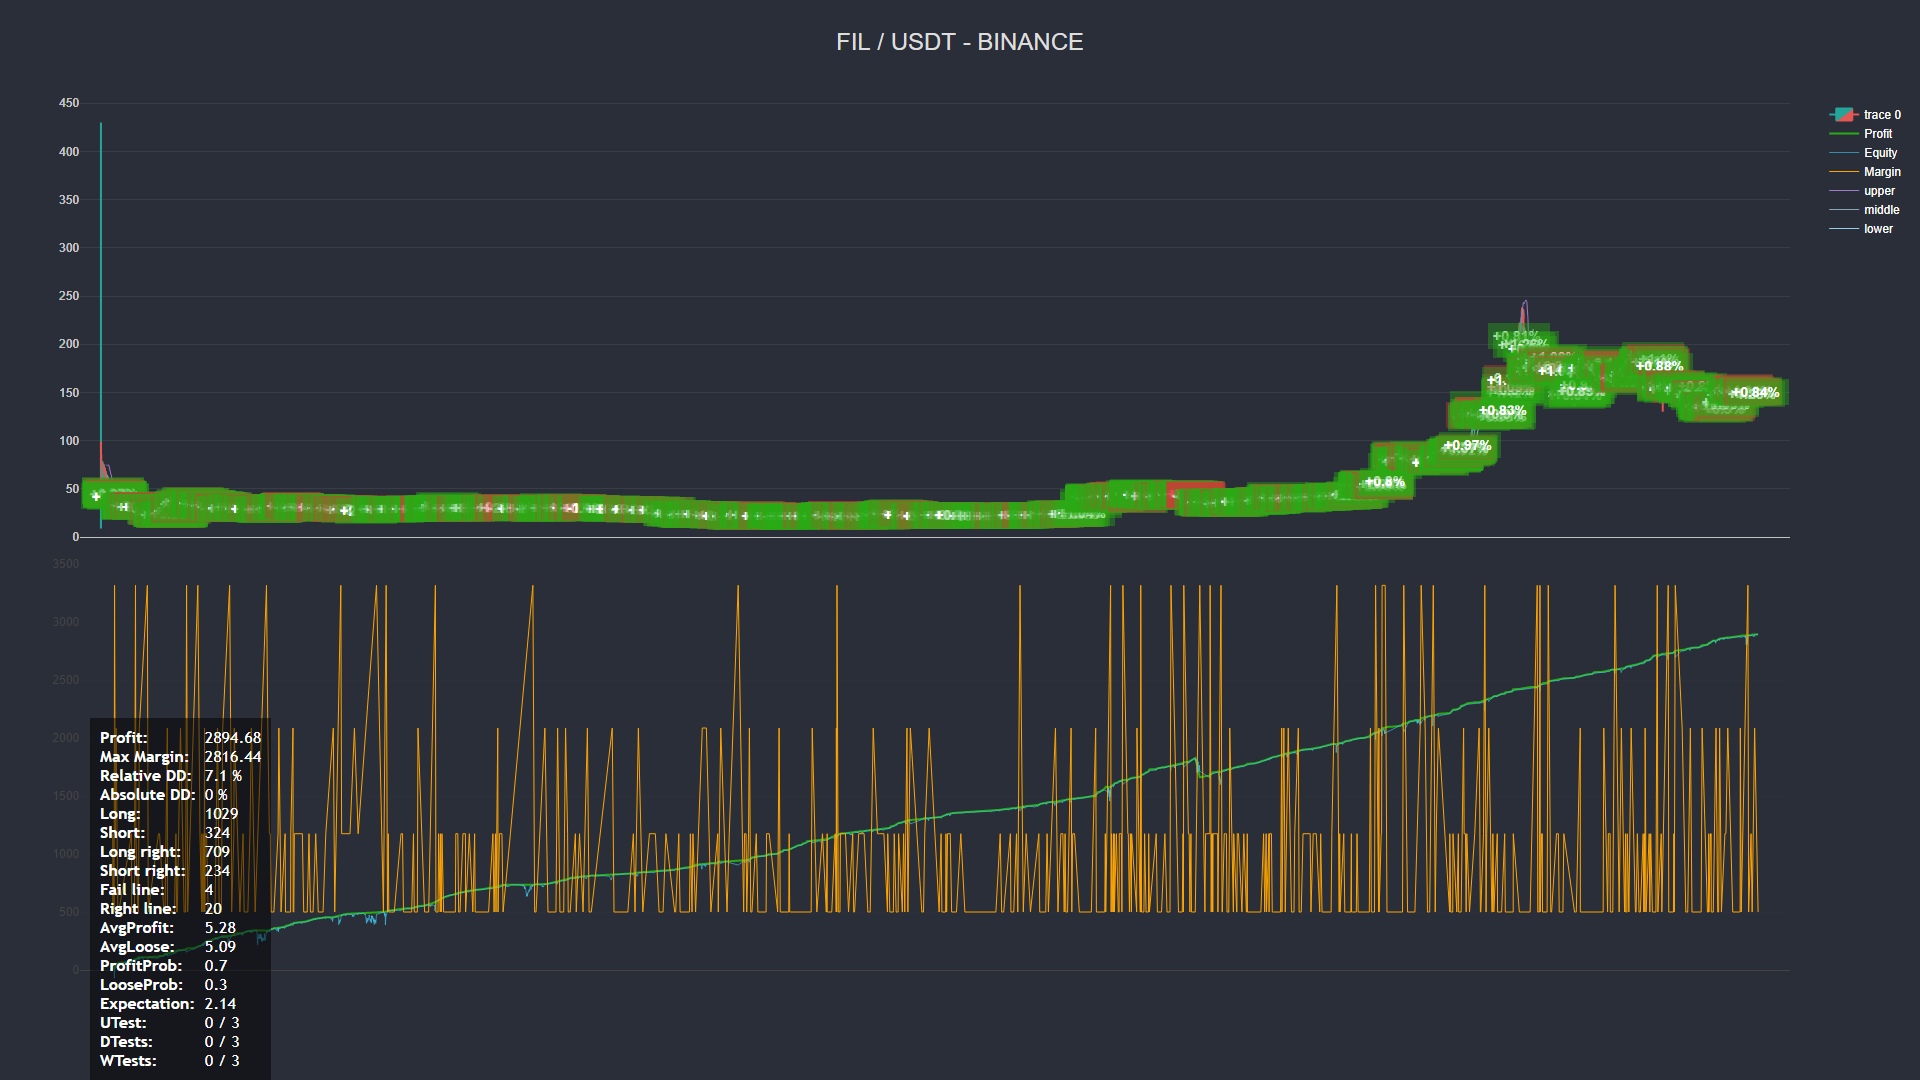
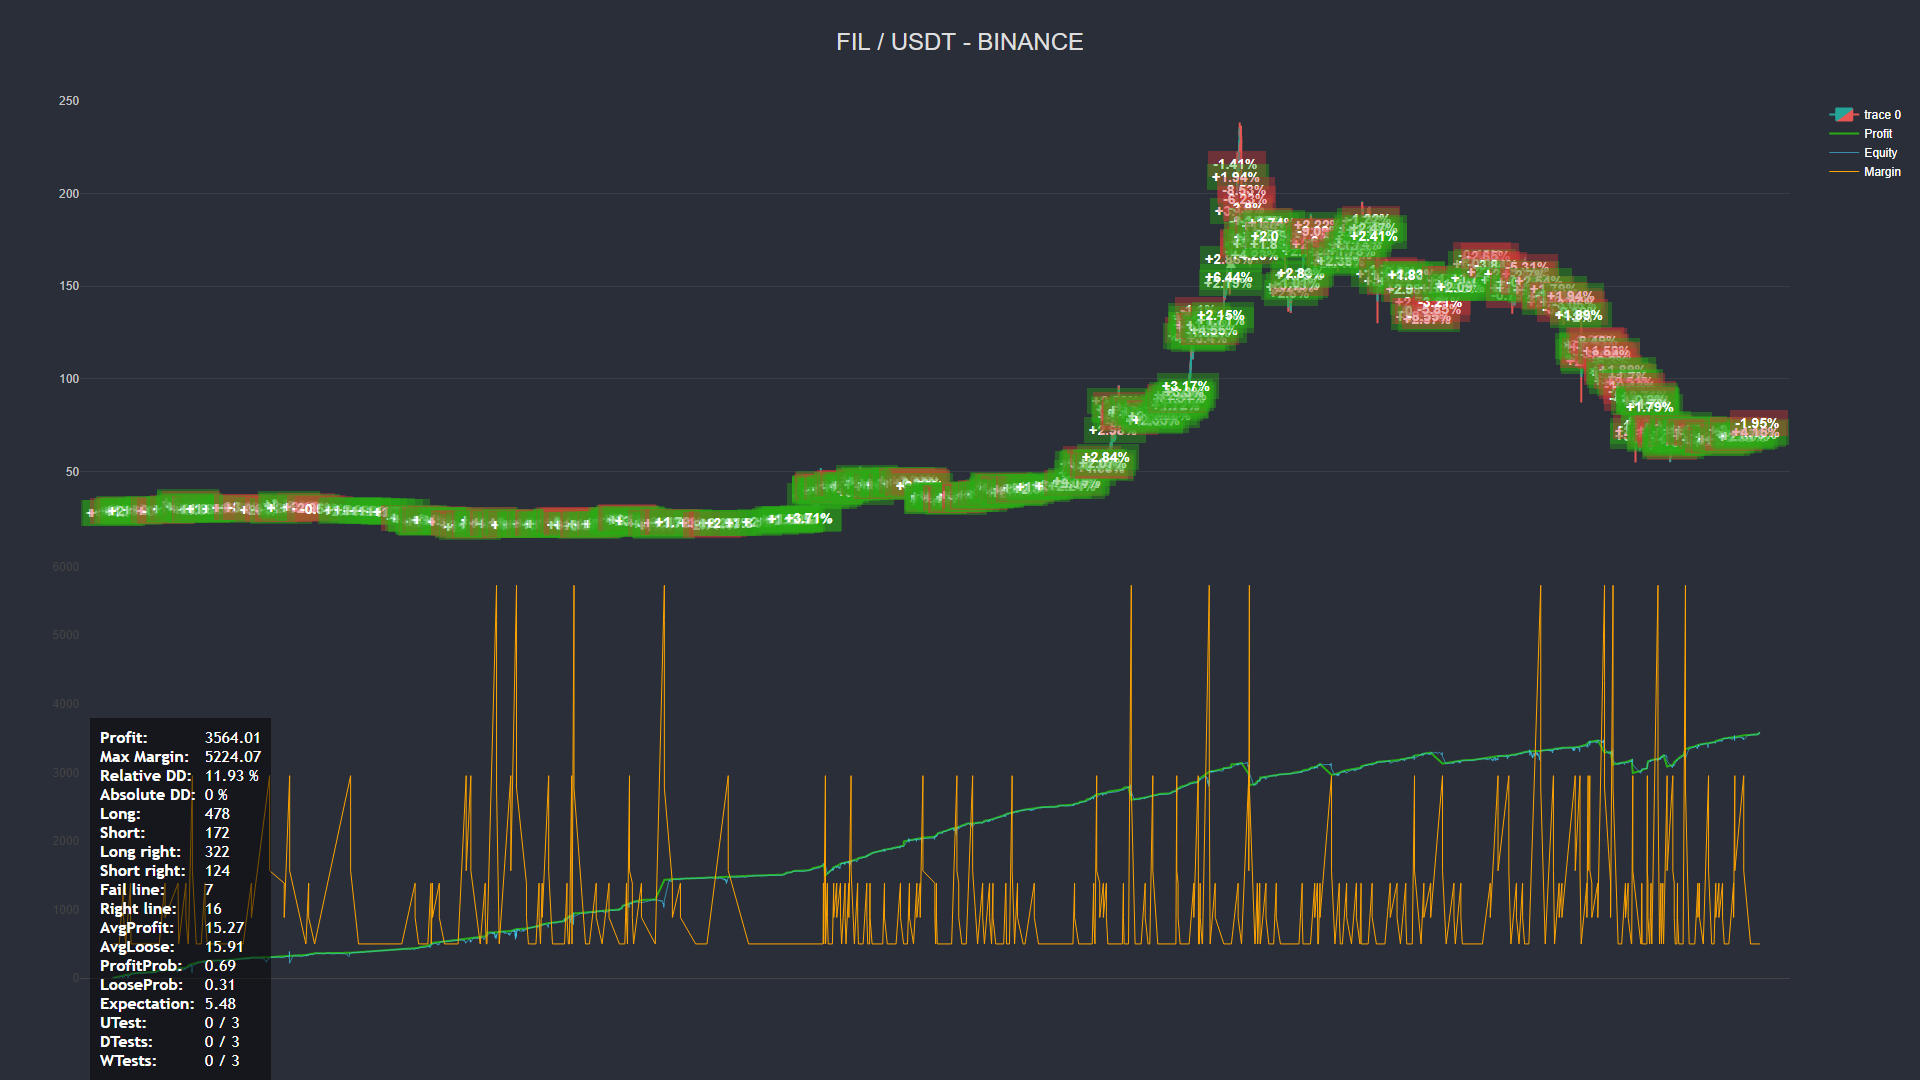
cfgs

diff --git a/src/strategies/spikes-grid/cfgs.ts b/src/strategies/spikes-grid/cfgs.ts
@@ -1,153 +1,23 @@
 import { SpikesGOptions } from './bot';
 
-export const YFIIUSDT: SpikesGOptions = {
+export const BATUSDT: SpikesGOptions = {
     broker: 'binance',
-    ticker: 'YFIIUSDT',
+    ticker: 'BATUSDT',
     currency: 'USDT',
     interval: '15min',
     amount: 500,
     fee: 0.1,
-    eventExpireBars: 34,
-    takeProfit: 1.07,
+    eventExpireBars: 42,
+    takeProfit: 2,
     stopLoss: 30,
-    step: 1.91,
-    levelsCount: 2,
-    martingale: 1.25,
-    fibo: false,
-    barsTrend: 33,
-    reversed: true,
-    bandsPeriod: 13,
-    bandsDev: 1.55,
-    usePeaks: true,
-    buyOnly: false,
-    margin: true,
-    useClose: false,
-    id: 29,
-    lotsMultiplier: 1,
-};
-
-export const RVNUSDT: SpikesGOptions = {
-    broker: 'binance',
-    ticker: 'RVNUSDT',
-    currency: 'USDT',
-    interval: '15min',
-    amount: 500,
-    fee: 0.1,
-    eventExpireBars: 62,
-    takeProfit: 8,
-    stopLoss: 30,
-    step: 5,
-    levelsCount: 3,
-    martingale: 1.59,
-    fibo: false,
-    barsTrend: 58,
-    reversed: true,
-    bandsPeriod: 28,
-    bandsDev: 2.68,
-    usePeaks: true,
-    buyOnly: false,
-    margin: true,
-    useClose: false,
-    id: 29,
-    lotsMultiplier: 1,
-};
-
-export const XTZUSDT: SpikesGOptions = {
-    broker: 'binance',
-    ticker: 'XTZUSDT',
-    currency: 'USDT',
-    interval: '15min',
-    amount: 500,
-    fee: 0.1,
-    eventExpireBars: 52,
-    takeProfit: 1.23,
-    stopLoss: 30,
-    step: 1.27,
-    levelsCount: 3,
-    martingale: 1.83,
-    fibo: false,
-    barsTrend: 43,
-    reversed: true,
-    bandsPeriod: 64,
-    bandsDev: 1.42,
-    usePeaks: true,
-    buyOnly: false,
-    margin: true,
-    useClose: false,
-    id: 29,
-    lotsMultiplier: 1,
-};
-
-export const ONTUSDT: SpikesGOptions = {
-    broker: 'binance',
-    ticker: 'ONTUSDT',
-    currency: 'USDT',
-    interval: '15min',
-    amount: 500,
-    fee: 0.1,
-    eventExpireBars: 33,
-    takeProfit: 1.06,
-    stopLoss: 30,
-    step: 2.79,
+    step: 3.29,
     levelsCount: 3,
     martingale: 1.68,
     fibo: false,
-    barsTrend: 45,
+    barsTrend: 22,
     reversed: true,
-    bandsPeriod: 30,
-    bandsDev: 1.44,
-    usePeaks: true,
-    buyOnly: false,
-    margin: true,
-    useClose: false,
-    id: 29,
-    lotsMultiplier: 1,
-};
-
-export const XRPUSDT: SpikesGOptions = {
-    broker: 'binance',
-    ticker: 'XRPUSDT',
-    currency: 'USDT',
-    interval: '15min',
-    amount: 500,
-    fee: 0.1,
-    eventExpireBars: 28,
-    takeProfit: 1.69,
-    stopLoss: 30,
-    step: 1.71,
-    levelsCount: 3,
-    martingale: 1.95,
-    fibo: false,
-    barsTrend: 11,
-    reversed: true,
-    bandsPeriod: 10,
-    bandsDev: 1.98,
-    usePeaks: true,
-    buyOnly: false,
-    margin: true,
-    useClose: false,
-    id: 29,
-    lotsMultiplier: 1,
-};
-
-export const ETHUSDT: SpikesGOptions = {
-    broker: 'binance',
-    ticker: 'ETHUSDT',
-    currency: 'USDT',
-    interval: '15min',
-    amount: 500,
-    fee: 0.1,
-    eventExpireBars: 22,
-    takeProfit: 2.47,
-    stopLoss: 30,
-    step: 2.55,
-    levelsCount: 3,
-    martingale: 1.67,
-    fibo: false,
-    barsTrend: 20,
-    reversed: true,
-    bandsPeriod: 36,
-    bandsDev: 2.09,
+    bandsPeriod: 22,
+    bandsDev: 1.61,
     usePeaks: false,
     buyOnly: false,
     margin: true,
@@ -156,28 +26,27 @@ export const ETHUSDT: SpikesGOptions = {
     lotsMultiplier: 1,
 };
 
-export const XMRUSDT: SpikesGOptions = {
+export const FILUSDT: SpikesGOptions = {
     broker: 'binance',
-    ticker: 'XMRUSDT',
+    ticker: 'FILUSDT',
     currency: 'USDT',
     interval: '15min',
     amount: 500,
     fee: 0.1,
-    eventExpireBars: 32,
-    takeProfit: 2.08,
+    eventExpireBars: 67,
+    takeProfit: 1.56,
     stopLoss: 30,
-    step: 3.18,
+    step: 2.43,
     levelsCount: 3,
-    martingale: 1.64,
+    martingale: 1.77,
     fibo: false,
-    barsTrend: 25,
+    barsTrend: 35,
     reversed: true,
-    bandsPeriod: 59,
-    bandsDev: 1.59,
+    bandsPeriod: 57,
+    bandsDev: 2.03,
     usePeaks: true,
     buyOnly: false,
     margin: true,
     useClose: false,
-    id: 29,
-    lotsMultiplier: 1,
+    lotsMultiplier: 1.02,
 };

diff --git a/src/strategies/follow-trend/cfgs.ts b/src/strategies/follow-trend/cfgs.ts
@@ -1,51 +1,34 @@
 import { FTOptions } from './bot';
 
-export const AVAXUSDT: FTOptions = {
+export const CRVUSDT: FTOptions = {
     broker: 'binance',
-    ticker: 'AVAXUSDT',
+    ticker: 'CRVUSDT',
     currency: 'USDT',
-    interval: '5min',
-    stopLoss: 8.08,
-    takeProfit: 2,
+    interval: '15min',
+    stopLoss: 8.62,
+    takeProfit: 5.17,
     trailing: false,
     amount: 500,
-    fastPeriod: 22,
-    slowPeriod: 137,
-    openPercent: 2.13,
+    fastPeriod: 33,
+    slowPeriod: 187,
+    openPercent: 8,
     fee: 0.1,
     margin: true,
     id: 29,
 };
 
-export const OMGUSDT: FTOptions = {
+export const QTUMUSDT: FTOptions = {
     broker: 'binance',
-    ticker: 'OMGUSDT',
+    ticker: 'QTUMUSDT',
     currency: 'USDT',
-    interval: '5min',
-    stopLoss: 8.84,
-    takeProfit: 2.47,
+    interval: '15min',
+    stopLoss: 3.88,
+    takeProfit: 2.66,
     trailing: false,
     amount: 500,
-    fastPeriod: 16,
-    slowPeriod: 159,
-    openPercent: 1.07,
-    fee: 0.1,
-    margin: true,
-    id: 29,
-};
-
-export const XLMUSDT: FTOptions = {
-    broker: 'binance',
-    ticker: 'XLMUSDT',
-    currency: 'USDT',
-    interval: '5min',
-    stopLoss: 7.4,
-    takeProfit: 0.37,
-    trailing: false,
-    amount: 500,
-    fastPeriod: 7,
-    slowPeriod: 117,
-    openPercent: 1.31,
+    fastPeriod: 17,
+    slowPeriod: 168,
+    openPercent: 4.97,
     fee: 0.1,
     margin: true,
     id: 29,
